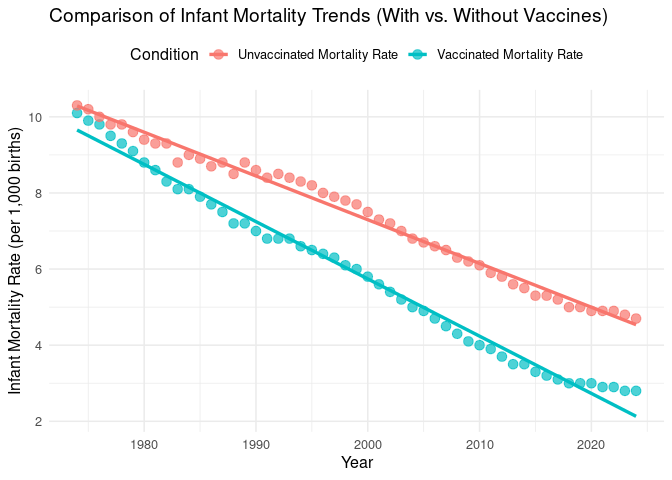
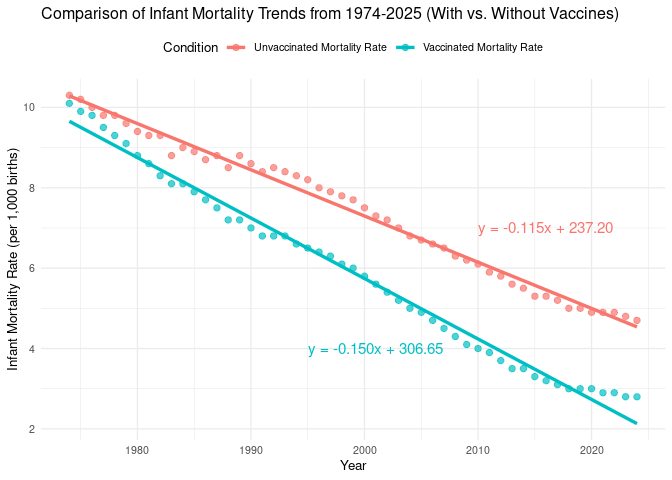
final portfolio finished

diff --git a/TateMPortfolio.md b/TateMPortfolio.md
@@ -1,7 +1,7 @@
-Final Portfolio:
+Final Portfolio: Effects of Vaccines on Global Infant Mortality Trends
 ================
 Tate McDonald
-2025-11-12
+2025-12-06
 
 - [ABSTRACT](#abstract)
 - [BACKGROUND & QUESTION FRAMING](#background--question-framing)
@@ -12,17 +12,36 @@ Tate McDonald
     Visualizations](#predictions--possible-visualizations)
 - [METHODS](#methods)
   - [Procedure](#procedure)
-  - [First Analysis: Comparison of Infant Mortality
-    Trends](#first-analysis-comparison-of-infant-mortality-trends)
+  - [First Analysis: Comparison of Global Infant Mortality Trends from
+    1974 to
+    2024](#first-analysis-comparison-of-global-infant-mortality-trends-from-1974-to-2024)
   - [Second Analysis: Generalized Linear
     Model](#second-analysis-generalized-linear-model)
 - [DISCUSSION](#discussion)
   - [First Analysis: Interpretation](#first-analysis-interpretation)
   - [Second Analysis: Interpretation](#second-analysis-interpretation)
+  - [Uncertainties & Limitations](#uncertainties--limitations)
 - [CONCLUSION](#conclusion)
 - [REFERENCES](#references)
 
 # ABSTRACT
+
+This report investigates the effects of vaccines on the global infant
+mortality rate, which has declined significantly over the last 150 years
+due to several factors. The findings of the study are based on data
+submitted and collected by several different world agencies. From 1974
+to 2024, the mortality rate for vaccinated and unvaccinated groups of
+infants was tracked. By plotting the two trends side-by-side, best fit
+lines for each trend were calculated to determine the difference in
+decline of mortality rate between the two groups. A generalized linear
+model was then implemented to ultimately determine the statistical
+significance of the data. An extremely small p-value signified a
+meaningful difference in the decline of mortality rate between
+vaccinated and unvaccinated groups of infants. The results of the study
+suggest vaccinating infants at or near time of birth significantly
+reduces rate of death compared to infants who remain unvaccinated. These
+findings indicate there are benefits to vaccinating infants, despite the
+limitations of the study.
 
 # BACKGROUND & QUESTION FRAMING
 
@@ -106,30 +125,43 @@ mortality rates than infants who do not receive vaccines.
 
 ## Procedure
 
-## First Analysis: Comparison of Infant Mortality Trends
+This study analyzed a data set depicting two global infant mortality
+trends from 1974 to 2024: one trend showing a decline in mortality rate
+among vaccinated infants, and another trend showing a decline in
+mortality rate among unvaccinated infants (Shattock et al., 2024).[^2]
+Two analyses were conducted to test the aforementioned hypothesis. The
+first assessment included a comparison of the slopes of the best fit
+lines calculated for each mortality trend. Overall percent reduction in
+mortality rate for both groups was also taken into consideration. The
+second analysis included a generalized linear model (GLM) which
+determined if the difference in the slopes of the two trends was
+significant enough to provide support for or against the hypothesis.
+Results are discussed in the following sections.
+
+## First Analysis: Comparison of Global Infant Mortality Trends from 1974 to 2024
+
+The plot of the data generated by the below code chunk displays
+important information pertinent to the main question of this study. Upon
+first glance, infants who received vaccinations at or near time of birth
+seemed to have experienced a greater reduction in mortality rate than
+infants who remained unvaccinated. This concept is reinforced by the
+slopes of the best fit lines calculated for each trend. Among vaccinated
+groups, there was an average decline in deaths per 1,000 births per year
+of about 0.15 from 1974 to 2024. In contrast, unvaccinated groups
+experienced a decline in deaths per 1,000 births per year of only about
+0.11. Furthermore, vaccinated infant populations in this data set were
+shown to experience a 72.3% overall reduction in mortality rate from
+1974 to 2024, while unvaccinated infant populations were shown to have a
+54.4% reduction in mortality rate within the same time period.
 
 ``` r
-# Load necessary packages
+# Load required packages
 library(tidyverse)
+library(broom)
 
 # Import data
 data <- read_csv("Global infant mortality rate with and without vaccines(Sheet1).csv")
 
-# Check the column names to make sure they match
-head(data)
-```
-
-    ## # A tibble: 6 × 3
-    ##    Year `Vaccinated Mortality Rate` `Unvaccinated Mortality Rate`
-    ##   <dbl>                       <dbl>                         <dbl>
-    ## 1  1974                        10.1                          10.3
-    ## 2  1975                         9.9                          10.2
-    ## 3  1976                         9.8                          10  
-    ## 4  1977                         9.5                           9.8
-    ## 5  1978                         9.3                           9.8
-    ## 6  1979                         9.1                           9.6
-
-``` r
 # Reshape data to long format
 data_long <- data %>%
   pivot_longer(
@@ -138,23 +170,56 @@ data_long <- data %>%
     values_to = "MortalityRate"
   )
 
-# Plot both lines with linear regression fits
+# Fit separate models for each condition to get equations
+model_vaccinated <- lm(MortalityRate ~ Year, 
+                       data = filter(data_long, Condition == "Vaccinated Mortality Rate"))
+model_unvaccinated <- lm(MortalityRate ~ Year, 
+                         data = filter(data_long, Condition == "Unvaccinated Mortality Rate"))
+
+# Extract coefficients
+coef_vac <- coef(model_vaccinated)
+coef_unvac <- coef(model_unvaccinated)
+
+# Create equation labels
+eq_vaccinated <- sprintf("y = %.3fx + %.2f", coef_vac[2], coef_vac[1])
+eq_unvaccinated <- sprintf("y = %.3fx + %.2f", coef_unvac[2], coef_unvac[1])
+
+# Plot with equations
 ggplot(data_long, aes(x = Year, y = MortalityRate, color = Condition)) +
-  geom_point(size = 3, alpha = 0.7) +
+  geom_point(size = 2, alpha = 0.7) +
   geom_smooth(method = "lm", se = FALSE, linewidth = 1.2) +
+  annotate("text", x = 2010, y = 7, 
+           label = eq_unvaccinated, 
+           color = "#F8766D", size = 4, hjust = 0) +
+  annotate("text", x = 1995, y = 4, 
+           label = eq_vaccinated, 
+           color = "#00BFC4", size = 4, hjust = 0) +
   labs(
-    title = "Comparison of Infant Mortality Trends (With vs. Without Vaccines)",
+    title = "Comparison of Infant Mortality Trends from 1974-2025 (With vs. Without Vaccines)",
     x = "Year",
     y = "Infant Mortality Rate (per 1,000 births)",
     color = "Condition"
   ) +
-  theme_minimal(base_size = 12) +
+  theme_minimal(base_size = 10) +
   theme(legend.position = "top")
 ```
 
 ![](TateMPortfolio_files/figure-gfm/unnamed-chunk-2-1.png)<!-- -->
 
-## Second Analysis: Generalized Linear Model
+## Second Analysis: Generalized Linear Model[^3]
+
+This study used a generalized linear model over ANOVA to compare the two
+mortality trends because the errors within the data could not be assumed
+to be normally distributed, although the data was continuous from 1974
+to 2024. From this particular model it was determined that vaccinated
+groups of infants on average experienced a greater decline in mortality
+rate per year than unvaccinated groups. From 1974 to 2024, groups of
+infants who were vaccinated showed a reduction in mortality rate about
+0.036 deaths per 1,000 births per year greater than infants who were not
+vaccinated. Furthermore, the model returned a p-value of 2.2e-16,
+meaning that the difference in the decline of mortality rate of both
+groups was statistically significant, and this result was most likely
+not due to random chance.
 
 ``` r
 # Load required packages
@@ -209,9 +274,63 @@ summary(model)
 
 ## First Analysis: Interpretation
 
+The results of the graph of the data set give evidence to support the
+hypothesis that vaccinated groups of infants experience a greater
+reduction in mortality rate than unvaccinated groups. Not only is there
+a visual distinction between the two trends, but the slopes of both best
+fit lines (-0.15 for vaccinated groups and -0.11 for unvaccinated
+groups) support the prediction that there is indeed a difference made in
+infant mortality rates when infants are vaccinated at or near time of
+birth.
+
 ## Second Analysis: Interpretation
 
+The results of the generalized linear model also support the hypothesis
+that vaccinated groups of infants experience a greater reduction in
+mortality rate than unvaccinated groups. It was predicted that the GLM
+would produce a p-value that would indicate a significant difference in
+the decline in infant mortality rates for vaccinated and unvaccinated
+groups. After comparing the differences in the slopes of the best fit
+lines obtained from the graph, the model returned a p-value of 2.2e-16,
+which is much less than 0.05 and very close to 0.0. This p-value, as
+previously mentioned, indicates vaccinated groups of infants experienced
+a significantly greater reduction in mortality rate from 1974 to 2024
+than unvaccinated groups.
+
+## Uncertainties & Limitations
+
+While the results of this study shed positive light on the effects of
+vaccinations, the experiment was not without its limitations. While at
+first it was desired to focus on the effects of just a single
+vaccination, some vaccines have only recently become available to
+pregnant mothers and their infants, and so the data on such vaccines is
+sparse. Furthermore, while the data obtained for this study covered more
+than 100 countries across the globe, there are differences in how
+governments classify individuals as “fully” vaccinated, meaning there
+could be instances of overrepresentation or underrepresentation within
+both vaccinated and unvaccinated groups. Lastly, causes of death were
+not specified when mortality rates were calculated during this study,
+and so it is impossible to say if a certain vaccine prevented a death at
+any given point in time. Despite these uncertainties, the results of
+this particular study were so significant that there is reason to
+believe the hypothesis would still be supported even if these
+limitations were removed or corrected.
+
 # CONCLUSION
+
+Overall, the results of the analyses conducted in this study provide
+strong evidence that supports the hypothesis that routine infant
+vaccinations significantly contribute to the overall decline in infant
+mortality rates over the last 50 years. Global efforts to improve the
+quality of life of children through the administration of vaccines are
+indeed proving successful. In conclusion, these results show there could
+exist a positive correlation between vaccination status and a longer
+lifespan, while at the same time there could be negative consequences
+for those who choose not to become vaccinated against diseases. The
+results of this experiment could be used to ease the concerns of parents
+looking to provide the best for their children, and it is hoped that
+more people across the world will contribute positively to the fight
+against disease.
 
 # REFERENCES
 
@@ -219,3 +338,11 @@ summary(model)
     Data Visualization Gallery - mortality trends in the United States.
     Centers for Disease Control and Prevention.
     <https://www.cdc.gov/nchs/data-visualization/mortality-trends/index.htm#citation>.
+
+[^2]: Shattock et al. (2024). Contribution of vaccination to improved
+    survival and health: modelling 50 years of the Expanded Programme on
+    Immunization. The Lancet.
+
+[^3]: ChatGPT. OpenAI, version Jan 2025. Used as a reference for
+    functions such as plot() and to correct syntax errors. Accessed
+    2025-12-2.

diff --git a/TateMWarm-Up.md b/TateMWarm-Up.md
@@ -1,7 +1,7 @@
 Warm-up Mini-report: Mosquito Blood Hosts in Salt Lake City, Utah
 ================
 Tate McDonald
-2025-11-12
+2025-12-02
 
 - [ABSTRACT](#abstract)
 - [BACKGROUND](#background)
@@ -435,4 +435,4 @@ commonly found bird species, and mosquitoes.
 
 [^2]: ChatGPT. OpenAI, version Jan 2025. Used as a reference for
     functions such as plot() and to correct syntax errors. Accessed
-    2025-11-12.
+    2025-12-02.
